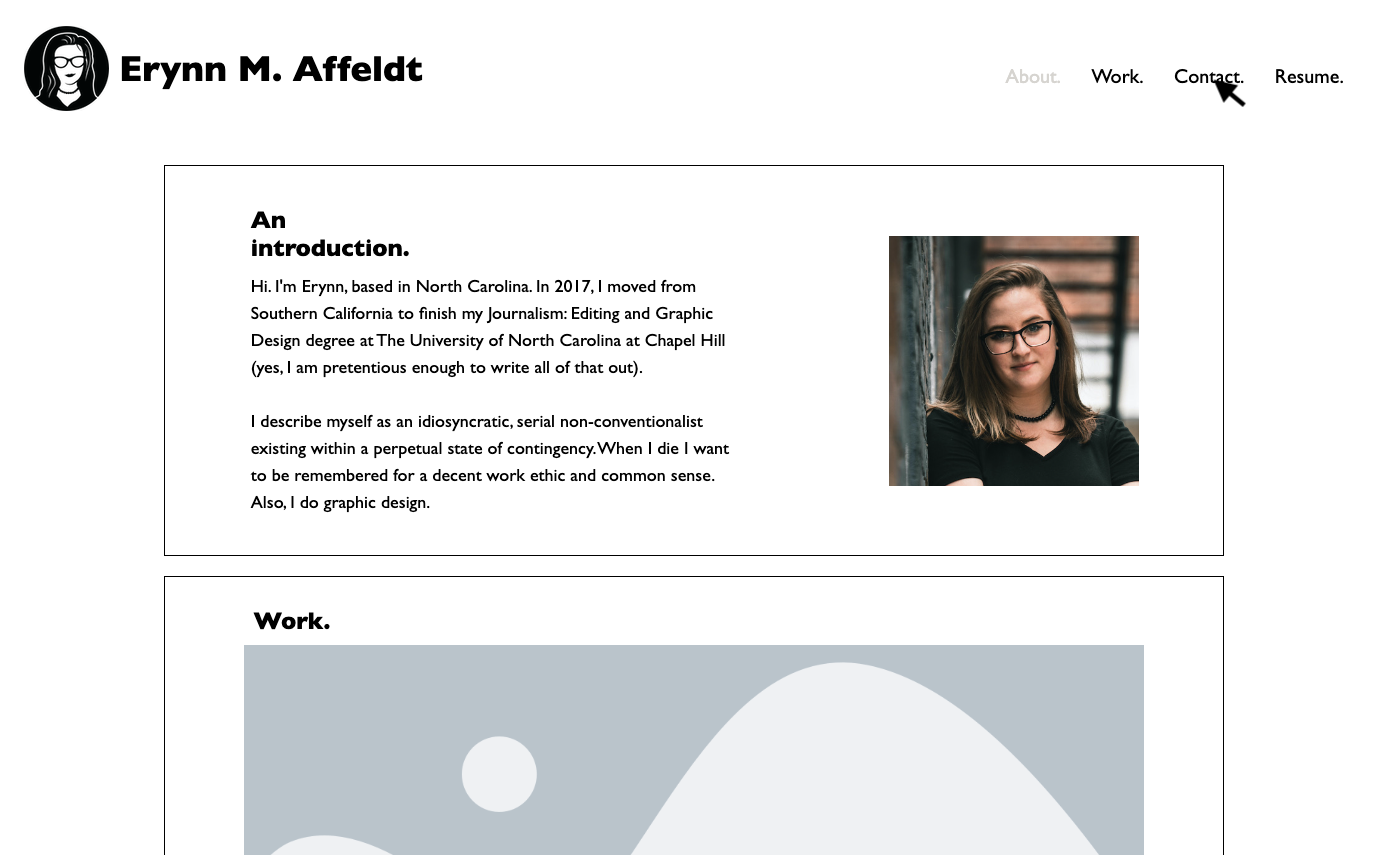
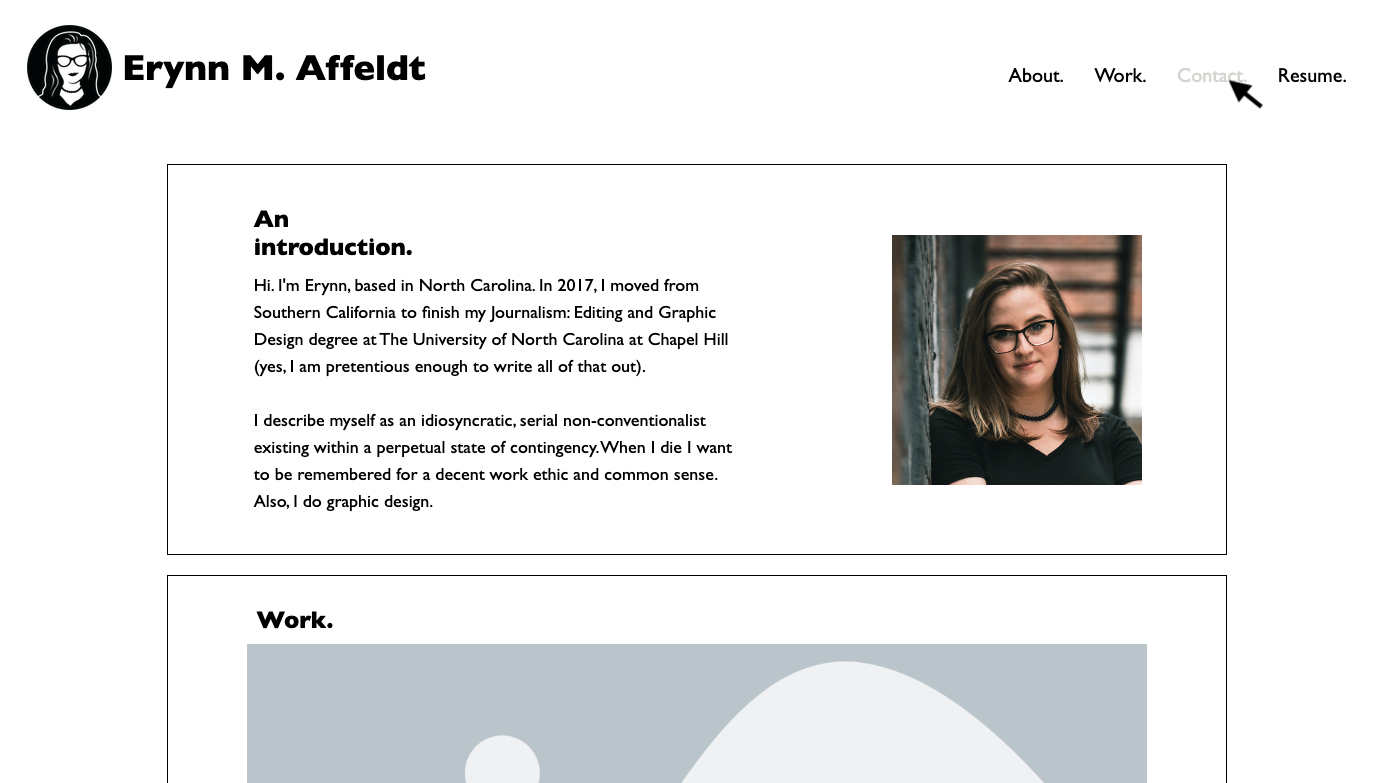
Added project link, added image hover

diff --git a/assets/css/style.css b/assets/css/style.css
@@ -24,7 +24,7 @@ header section {
 
 header section h1 {
     align-self: center;
-    padding-left: 10px;
+    padding-left: 20px;
 }
 
 /* Navigation Styles */
@@ -99,6 +99,7 @@ h4 {
     text-align: left;
     color: #fff;
     padding: 10px;
+
 }
 
 /* Main content styles */
@@ -124,10 +125,12 @@ p {
     text-align: left;
 }
 
+/* Section blocks styles  */
+
 section .box {
     display: inline;
-    justify-content: flex-start;
     align-items: center;
+    justify-content: flex-start;
     height: 85px;
 }
 
@@ -155,6 +158,7 @@ section .card {
     border-style: solid;
     border-width: 1px;
 }
+
 section .smphoto {
     display: flex;
     justify-content: space-between;
@@ -178,107 +182,129 @@ section .smphoto {
     position: relative;
     cursor: pointer;
 }
-    section .copy {
-        max-width: 515px;
-        margin: 10px
+
+section .copy {
+    max-width: 515px;
+    margin: 10px
+}
+
+section .photo {
+    display: flex;
+    flex-wrap: wrap;
+    flex-direction: column;
+    justify-content: space-around;
+    max-width: 300px;
+}
+
+.photo {
+    display: flex;
+    flex-direction: column;
+    flex-wrap: wrap;
+    padding: 2em;
+}
+
+.card .contact {
+    -ms-flex-align: start;
+}
+
+/* Hover Styles Attempt */
+
+.photo figure img {
+	-webkit-filter: grayscale(100%);
+	filter: grayscale(100%);
+	-webkit-transition: .3s ease-in-out;
+	transition: .3s ease-in-out;
+}
+.photo figure:hover img {
+	-webkit-filter: grayscale(0);
+	filter: grayscale(0);
+}
+
+/* Button Styling */
+
+section .copy button {
+    width: 200px;
+    height: 50px;
+    margin-top: 40px;
+    margin-left: 10px;
+    font-family: 'Gill Sans', 'Gill Sans MT', Calibri, 'Trebuchet MS', sans-serif;
+    font-size: 20px;
+    color: white;
+    background-color: black;
+    border-radius: 5px;
+}
+
+/* Form Stylesheet */
+
+form {
+    Font-family: 'Gill Sans', 'Gill Sans MT', Calibri, 'Trebuchet MS', sans-serif;
+}
+
+/* Form Style inputs with type="text" */
+input[type=text],
+select,
+textarea {
+    width: 100%;
+    padding: 12px;
+    border: 1px solid #ccc;
+    border-radius: 4px;
+    box-sizing: border-box;
+    margin-top: 6px;
+    margin-bottom: 16px;
+    resize: vertical
+}
+
+/* Form Submit Button style */
+input[type=submit] {
+    border: none;
+    width: 200px;
+    height: 50px;
+    margin-top: 40px;
+    margin-left: 10px;
+    font-family: 'Gill Sans', 'Gill Sans MT', Calibri, 'Trebuchet MS', sans-serif;
+    font-size: 20px;
+    color: white;
+    background-color: black;
+    border-radius: 5px;
+    cursor: pointer;
+}
+
+/* Form background styles*/
+.container {
+    border-radius: 5px;
+    background-color: #f2f2f2;
+    padding: 20px;
+    margin: 60px;
+}
+
+/* Footer Styling */
+
+footer {
+    text-align: start;
+    background-color: #000;
+    padding: 30px;
+    margin-top: 20px;
+}
+
+footer section {
+    display: flex;
+    flex-direction: row;
+    flex-wrap: nowrap;
+}
+
+
+/* Media Queries for phone size */
+
+@media screen and (max-width: 956px) {
+    .copy .photo {
+        margin: 1em 2em;
     }
 
-    section .photo {
-        display: flex;
-        flex-wrap: wrap;
-        flex-direction: column;
-        justify-content: space-around;
-        max-width: 300px;
-    }
+}
 
-    .photo {
-        display: flex;
-        flex-direction: column;
-        flex-wrap: wrap;
-        padding: 2em;
-    }
-
-    .card .contact {
-        -ms-flex-align: start;
-    }
-
-    /* Button Styling */
-
-    section .copy button {
-        width: 200px;
-        height: 50px;
-        margin-top: 40px;
-        margin-left: 10px;
-        font-family: 'Gill Sans', 'Gill Sans MT', Calibri, 'Trebuchet MS', sans-serif;
-        font-size: 20px;
-        color: white;
-        background-color: black;
-        border-radius: 5px;
-    }
-
-    /* Form Stylesheet */
-
-    form {
-        Font-family: 'Gill Sans', 'Gill Sans MT', Calibri, 'Trebuchet MS', sans-serif;
-    }
-
-    /* Style inputs with type="text", select elements and textareas */
-    input[type=text],
-    select,
-    textarea {
+@media screen and (max-width: 500px) {
+    .card img {
         width: 100%;
-        padding: 12px;
-        border: 1px solid #ccc;
-        border-radius: 4px;
-        box-sizing: border-box;
-        margin-top: 6px;
-        margin-bottom: 16px;
-        resize: vertical
+        min-width: 75px;
     }
-
-    /* Form Submit Button style */
-    input[type=submit] {
-        border: none;
-        width: 200px;
-        height: 50px;
-        margin-top: 40px;
-        margin-left: 10px;
-        font-family: 'Gill Sans', 'Gill Sans MT', Calibri, 'Trebuchet MS', sans-serif;
-        font-size: 20px;
-        color: white;
-        background-color: black;
-        border-radius: 5px;
-        cursor: pointer;
-    }
-
-    /* Add a background color and some padding around the form */
-    .container {
-        border-radius: 5px;
-        background-color: #f2f2f2;
-        padding: 20px;
-        margin: 60px;
-    }
-
-    /* Footer Styling */
-
-    footer {
-        text-align: start;
-        background-color: #000;
-        padding: 30px;
-    }
-
-    /* Media Queries for phone size */
-
-    @media screen and (max-width: 956px) {
-        .copy .photo {
-            margin: 1em 2em;
-        }
-
-    }
-
-    @media screen and (max-width: 500px) {
-        .card img {
-            width: 100%;
-            min-width: 75px;
-        }
-    }
+}

diff --git a/index.html b/index.html
@@ -54,45 +54,49 @@
         <!--Portfolio Section-->
         <section id="work" class="card">
             <h2>Work.</h2>
-            <div class="hero">
-                <img src="./assets/images/placeholder-image-hero.png" alt="placeholder image">
+            <!-- Portfolio Hero Image -->
+            <div class="photo, hero">
+                <a href="https://github.com/competentpunk/seo-refactoring-code" method="get" target="_blank"> 
+                    <figure><img src="./assets/images/seo-project.png" alt="SEO Refractoring Code screenshot"></figure></a>
             </div>
+            <!-- Portfolio Small Images -->
             <div class="smphoto">
-            <div class="photo">
-                <img src="./assets/images/placeholder-image.webp" alt="placeholder image">
+                <div class="photo">
+                   <figure><img src="./assets/images/placeholder-image.webp" alt="Placeholder image"></figure>
+                </div>
+
+                <div class="photo">
+                    <figure><img src="./assets/images/placeholder-image.webp" alt="Placeholder image"></figure>
+                </div>
+
+                <div class="photo">
+                    <figure><img src="./assets/images/placeholder-image.webp" alt="Placeholder image"></figure>
+                </div>
             </div>
-            <div class="photo">
-                <img src="./assets/images/placeholder-image.webp" alt="placeholder image">
-            </div>
-             <div class="photo">
-                <img src="./assets/images/placeholder-image.webp" alt="placeholder image">
-            </div>
-        </div>
         </section>
-
-
 
         <!--Contact Section-->
         <section id="contact" class="card">
             <h2>Contact.</h2>
             <div class="container">
                 <form action="action_page.php">
-              
-                  <label for="fname">First Name</label>
-                  <input type="text" id="fname" name="firstname" placeholder="First">
-              
-                  <label for="lname">Last Name</label>
-                  <input type="text" id="lname" name="lastname" placeholder="Last">
-                  
-                  <label for="email">Email Address</label>
-                  <input type="text" id="email" name="email" placeholder="email@example.com">
-                  <label for="subject">Subject</label>
-                  <textarea id="subject" name="subject" placeholder="What's the project?" style="height:200px"></textarea>
-              
-                  <input type="submit" value="Submit">
-              
+
+                    <label for="fname">First Name</label>
+                    <input type="text" id="fname" name="firstname" placeholder="First">
+
+                    <label for="lname">Last Name</label>
+                    <input type="text" id="lname" name="lastname" placeholder="Last">
+
+                    <label for="email">Email Address</label>
+                    <input type="text" id="email" name="email" placeholder="email@example.com">
+                    <label for="subject">Subject</label>
+                    <textarea id="subject" name="subject" placeholder="What's the project?"
+                        style="height:200px"></textarea>
+
+                    <input type="submit" value="Submit">
+
                 </form>
-              </div>
+            </div>
         </section>
 
         <!--Resume Section-->

diff --git a/assets/css/reset.css b/assets/css/reset.css
@@ -1,0 +1,29 @@
+* {
+  margin: 0;
+  padding: 0;
+  box-sizing: border-box;
+}
+
+html {
+  height: 100%;
+}
+
+body {
+  min-height: 100%;
+  line-height: 1;
+  font-family: sans-serif;
+}
+
+h1, h2, h3, h4, h5, h6 {
+  font-size: 100%;
+}
+
+input, select, option, optgroup, textarea, button,
+pre, code {
+  font-size: 100%;
+  font-family: inherit;
+}
+
+ol, ul {
+  list-style: none;
+}
